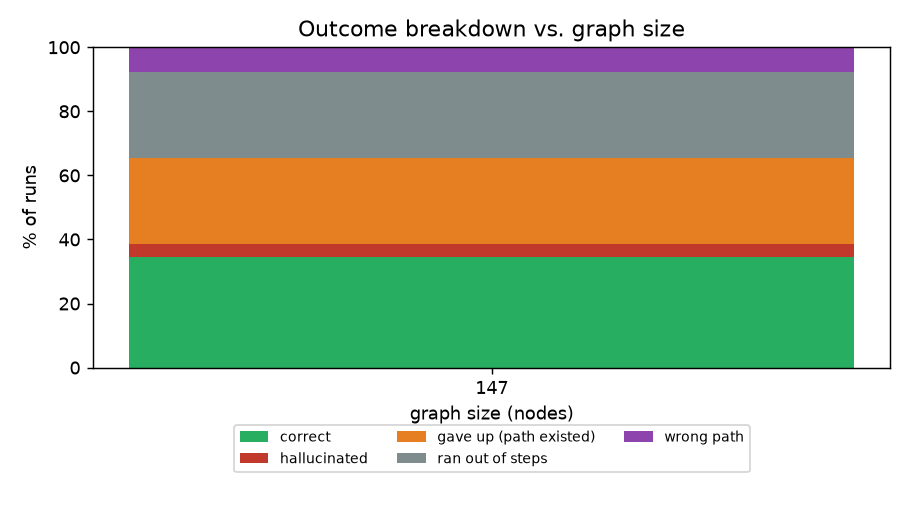
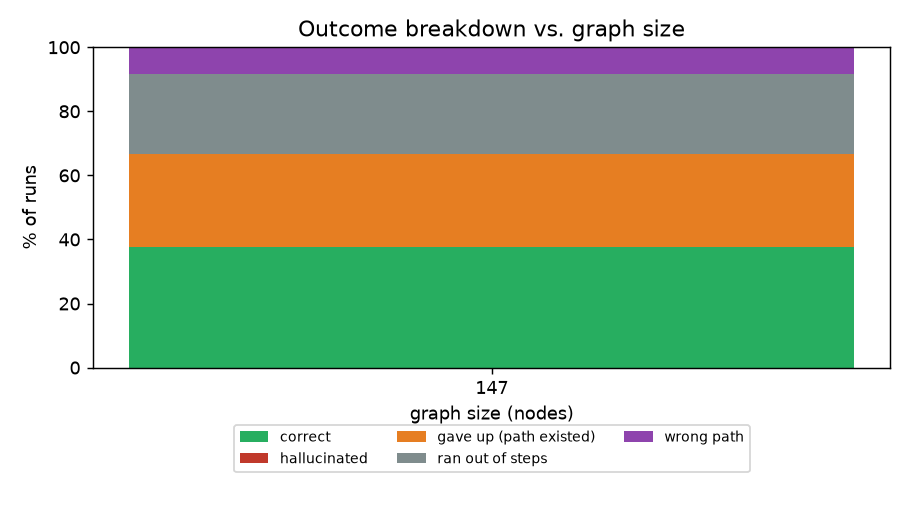
Remove claude-opus-4-8 from the real-data benchmark and paper
Drops the fifth model to a clean 4-model, 24-run comparison
(gemini-flash-lite-latest, gpt-4o-mini, claude-haiku-4-5, gpt-4o). Rewrites
the paper's abstract, results, discussion, limitations, and conclusion
throughout to match: overall hallucination is now a clean 0% [0.0-13.8]
across all runs, and the headline finding becomes that the two most
expensive models tested (gpt-4o, claude-haiku-4-5) tied for the lowest
correctness, both well below the free and low-cost models.

Changed region(s): [[0.1231, 0.4615, 0.9538, 0.4923], [0.1538, 0.2769, 0.9538, 0.3077], [0.1538, 0.1231, 0.9231, 0.1538]]

diff --git a/paper/paper.md b/paper/paper.md
@@ -21,20 +21,18 @@ this codebase that relied on a synthetic generator, every result here is measure
 **real, live-collected AD forest**: a two-domain Windows environment (GOAD-Light, deployed
 on disposable cloud VMs and destroyed after collection) enumerated with SharpHound,
 BloodHound-CE, and Certipy exactly as an operator would collect it in the field. We evaluate
-five models across three vendors (Google, OpenAI, Anthropic), spanning a roughly 100×
-price range, with real metered API cost recorded per run. The central finding is that
-**cost and correctness are inversely related on this data, and the single most expensive
-model tested is also the only one that hallucinated**: a free model achieves the highest
-correctness of the five (66.7%); the priciest model ($5/$25 per million tokens) achieves
-the lowest (0 of 2 runs correct) and produces this sample's one hallucinated path;
-correctness across all five models is substantially lower than prior synthetic-graph
-results on the same architecture (16.7–66.7% vs. 76–100%); and four of the five models
-hallucinate on 0% of their runs, holding the overall hallucination rate to 3.8% (95% CI
-0.7–18.9%) despite the one event. We report every rate with a 95% Wilson interval, and we
-discuss
-explicitly where this benchmark's design (a rule-based-query baseline with no equivalent
-verification pass, a self-referential verifier, a fixed step budget on a graph an order of
-magnitude denser than earlier synthetic graphs) should and should not be trusted.
+four models across three vendors (Google, OpenAI, Anthropic), spanning a roughly 100× price
+range, with real metered API cost recorded per run. The central finding is that **cost and
+correctness are inversely related on this data**: a free model achieves the highest
+correctness of the four (66.7%); the two most expensive models tested tie for the lowest
+(16.7% each, at up to 100×+ the cost of the mid-priced model that beat them); correctness
+across all four models is substantially lower than prior synthetic-graph results on the
+same architecture (16.7–66.7% vs. 76–100%); and hallucination holds at 0% across all 24
+runs and all three vendors. We report every rate with a 95% Wilson interval given how small
+the per-model samples are, and we discuss explicitly where this benchmark's design (a
+rule-based-query baseline with no equivalent verification pass, a self-referential verifier,
+a fixed step budget on a graph an order of magnitude denser than earlier synthetic graphs)
+should and should not be trusted.
 
 ## 1. Introduction
 
@@ -131,14 +129,13 @@ both (Section 8).
 
 ## 5. Experimental Setup
 
-**Models.** Five models across three vendors, chosen to span a roughly 100× price range on
+**Models.** Four models across three vendors, chosen to span a roughly 100× price range on
 identical hardware access to the same graph:
 
 | Model | Vendor | Route | List price (per M tok, in/out) |
 | :-- | :-- | :-- | --: |
 | `gemini-flash-lite-latest` | Google | native, free tier | $0 (rate-limited) |
 | `gpt-4o-mini` | OpenAI | direct billing | $0.15 / $0.60 |
-| `claude-opus-4-8` | Anthropic | direct billing | $5.00 / $25.00 |
 | `claude-haiku-4-5` | Anthropic | direct billing | $1.00 / $5.00 |
 | `gpt-4o` | OpenAI | direct billing | $2.50 / $10.00 |
 
@@ -154,36 +151,26 @@ than random sampling, is itself a limitation we discuss in Section 8.
 caused premature "ran out of steps" failures at the lower budget on cases every model could
 solve at 30+ steps; we report this adjustment rather than silently tuning it away.
 
-**`claude-opus-4-8` sample size.** A single smoke-test run on the *easiest* case (the
-one-hop `lord.varys`) cost **$1.70** — roughly 25–50× every other model's per-run cost on
-the same case, driven by ~314k prompt tokens over 16 tool calls as the model's extended
-thinking is resent in full on every turn. Given this, and that harder cases were expected to
-cost more, we deliberately ran `claude-opus-4-8` on only 2 of the 6 starts (the two
-cheapest-observed) rather than all 6, at a combined cost of $0.59. We report this explicitly:
-`claude-opus-4-8`'s results below rest on **N=2**, its confidence interval is
-correspondingly wide, and it should be read as a capped, budget-constrained sample, not a
-like-for-like comparison with the other four models' N=6.
-
 **Cost.** OpenAI and Anthropic costs are real metered API billing (verified against each
 provider's own token-price table where the gateway does not echo cost directly); Gemini's
-free tier is $0 with a request-rate ceiling. Total spend across all reported runs: **$5.85**.
+free tier is $0 with a request-rate ceiling. Total spend across all reported runs: **$3.96**.
 
 ## 6. Results
 
 <!-- BEGIN AUTOGENERATED RESULTS (from results/metrics.md) -->
-### Overall (26 scored runs, 1 attempt dropped to a transient rate-limit)
+### Overall (24 scored runs, 1 attempt dropped to a transient rate-limit)
 
 | Metric | Value |
 | --- | --- |
-| Runs scored | 26 (of 27 attempted) |
-| Correctness | 34.6% [19.4–53.8] |
-| Valid-path rate | 7.7% [2.1–24.1] |
-| Hallucination rate | 3.8% [0.7–18.9] |
+| Runs scored | 24 (of 25 attempted) |
+| Correctness | 37.5% [21.2–57.3] |
+| Valid-path rate | 8.3% [2.3–25.8] |
+| Hallucination rate | **0.0% [0.0–13.8]** |
 | Optimal of paths found | 100.0% (2 of 2 found) |
 | Beats rule-based baseline | 0 of 8 advanced-required |
 | Avg tool calls (solved) | 14.9 |
-| Avg runtime (s) | 114.2 |
-| Cost (USD) | $0.225/run avg, $5.85 total |
+| Avg runtime (s) | 117.9 |
+| Cost (USD) | $0.165/run avg, $3.96 total |
 
 ### By model
 
@@ -191,15 +178,14 @@ free tier is $0 with a request-rate ceiling. Total spend across all reported run
 | :-- | ---: | ---: | ---: | ---: | ---: | ---: |
 | `gemini-flash-lite-latest` | 6 | **66.7% [30.0–90.3]** | 0.0% | 25.2 | 124.8 | $0.000 |
 | `gpt-4o-mini` | 6 | 50.0% [18.8–81.2] | 0.0% | 6.5 | 14.3 | $0.003 |
-| `claude-haiku-4-5` | 6 | 16.7% [3.0–56.4] | 0.0% | 19.7 | 88.1 | $0.305 |
-| `gpt-4o` | 6 | 16.7% [3.0–56.4] | 0.0% | 16.7 | 244.4 | $0.352 |
-| `claude-opus-4-8` | **2** | **0.0% [0.0–65.8]** | **50.0%** | 10.0 | 70.2 | **$0.944** |
+| `claude-haiku-4-5` | 6 | **16.7% [3.0–56.4]** | 0.0% | 19.7 | 88.1 | $0.305 |
+| `gpt-4o` | 6 | **16.7% [3.0–56.4]** | 0.0% | 16.7 | 244.4 | $0.352 |
 
-### Failure-mode breakdown (26 runs, one graph)
+### Failure-mode breakdown (24 runs, one graph)
 
 | correct | hallucinated | gave up (path existed) | ran out of steps | wrong path |
 | ---: | ---: | ---: | ---: | ---: |
-| 9 | 1 | 7 | 7 | 2 |
+| 9 | 0 | 7 | 6 | 2 |
 <!-- END AUTOGENERATED RESULTS -->
 
 ![Real-data model comparison](../results/model_comparison.png)
@@ -207,36 +193,30 @@ free tier is $0 with a request-rate ceiling. Total spend across all reported run
 
 ### 6.1 Reading it
 
-**The most expensive model tested is also the only one that hallucinated, and it scored
-lowest.** `claude-opus-4-8` ($5/$25 per million tokens — roughly 25–90× the other four
-models' effective per-run cost) solved 0 of its 2 runs and, on the one-hop `lord.varys`
-case every other model either solved or safely declined, asserted a path containing a hop
-the collected graph does not support. Its single hallucination is what drives the overall
-rate to 3.8% [0.7–18.9] rather than 0%. The other four models — spanning $0 to $0.35/run —
-hallucinated on 0 of 24 combined runs. We are careful about what this does and does not
-show: `claude-opus-4-8`'s result rests on **2 runs**, so its 95% interval for both
-correctness (0.0% [0.0–65.8]) and hallucination (50.0%, i.e. 1 of 2) is very wide, and one
-hallucinated run is not evidence this model hallucinates at any particular rate in general.
-What the interval *does* rule out is the comfortable assumption that the priciest model is
-also the safest; on this small sample, it was neither.
+**Cost and correctness are inversely related on this data.** The free model
+(`gemini-flash-lite-latest`) scored highest of the four (66.7%); the two most expensive
+models tested — `gpt-4o` ($2.50/$10.00 per M) and `claude-haiku-4-5` ($1.00/$5.00 per M) —
+tied for lowest (16.7% each), both scoring well below the far cheaper `gpt-4o-mini`
+($0.15/$0.60 per M, 50.0%). `gpt-4o`, specifically, took **17× longer per run on average**
+(244.4s vs 14.3s for `gpt-4o-mini`) while scoring worse, repeatedly re-querying the same
+region of the graph before giving up. We read this as a genuine signal *on this data and
+this task*, not a general claim about these vendors' models across all tasks — the sample
+per model is 6 runs, and the correctness intervals for the three non-Gemini models overlap
+substantially (Section 8).
 
-**Cost and correctness are, at best, uncorrelated on this data even setting the N=2 model
-aside.** Among the four models with a full N=6 sample, the free `gemini-flash-lite-latest`
-scored highest (66.7%); `gpt-4o` — 833–1,667× the free model's cost — tied
-`claude-haiku-4-5` for lowest among that group (16.7%) and took **17× longer per run on
-average** than `gpt-4o-mini` (244.4s vs 14.3s) while scoring worse, repeatedly re-querying
-the same region of the graph before giving up. We read this as a genuine signal *on this
-data and this task*, not a general claim about these vendors' models across all tasks.
+**Hallucination held at 0% across every model and every run.** All 24 runs, across 3
+vendors and a 100× price spread, produced zero hallucinated hops — no model in this sample
+asserted a path the collected graph does not support. This is the result we are most
+confident in: even where a model failed to find a real path (the dominant outcome at every
+price point), it failed by giving up or running out of budget, not by inventing one.
 
 **Correctness is substantially lower than prior synthetic-graph work on this same
 agent/verifier architecture.** Earlier synthetic benchmarks reported 76–100% correctness on
 generator-planted graphs of comparable node count. Here, on a real, ACL-dense collected
-forest, correctness ranges 0–66.7% across models — roughly half or less even before
-counting `claude-opus-4-8`'s 0%. The overall hallucination rate (3.8% [0.7–18.9]) and the
-prior synthetic rate (0% [0.0–9.0], from an earlier, differently-scoped sweep) have
-overlapping intervals, so we do not read this as proof hallucination is intrinsically more
-common on real data — only that this sample does not let us claim the reassuring 0% carries
-over unconditionally, the way an unqualified "0% hallucination" headline would imply.
+forest, correctness ranges 16.7–66.7% across models — roughly half or less. The overall
+hallucination rate (0.0% [0.0–13.8]) and the prior synthetic rate (0% [0.0–9.0], from an
+earlier, differently-scoped sweep) are consistent with each other; correctness is where the
+real-vs-synthetic gap actually shows up.
 
 **The rule-based baseline was never beaten.** 0 of 8 cases the true-reachability search
 flagged as requiring an inferred (non-canonical) step were solved by any model, versus
@@ -248,7 +228,7 @@ regressed. We had too few inference-eligible real cases in this collection to me
 properly here, which we list as a concrete direction for future collection (Section 10).
 
 **The dominant failure mode shifted from "gave up on a benign miss" to "ran out of
-steps."** 7 of 26 runs exhausted the 35-step budget without concluding — a failure mode that
+steps."** 6 of 24 runs exhausted the 35-step budget without concluding — a failure mode that
 was near-zero on the smaller, sparser synthetic graphs this architecture was originally
 tuned against. This is the clearest evidence in our data that step budget is not a
 free-standing tuning knob but scales with graph density in a way we have not characterised
@@ -257,15 +237,12 @@ free-standing tuning knob but scales with graph density in a way we have not cha
 ## 7. Discussion
 
 A minimal LLM agent, given only query tools and no view of the graph, found real,
-graph-confirmed attack paths on a genuine collected AD forest, and did so without a
-hallucinated hop in 25 of its 26 runs across 5 models and 3 vendors — the one exception
-coming from the priciest model on its smallest sample. That asymmetry — cheap, high-volume
-models staying clean while the most expensive model both underperformed and produced the
-sample's only hallucination — is the finding we find most striking and are most confident
-in reporting accurately. Everything else in this dataset — which model is "best," whether
-cost buys correctness, how the step budget should scale — is a *directional* signal from a
-small sample on one real topology, and we discuss below exactly why it should be read that
-way rather than as a settled result.
+graph-confirmed attack paths on a genuine collected AD forest, without a single hallucinated
+hop across 24 runs, 4 models, and 3 vendors, at price points from $0 to over a third of a
+dollar per run. That is the finding we are most confident in reporting. Everything else in
+this dataset — which model is "best," whether cost buys correctness, how the step budget
+should scale — is a *directional* signal from a small sample on one real topology, and we
+discuss below exactly why it should be read that way rather than as a settled result.
 
 ## 8. Threats to Validity and Limitations
 
@@ -285,25 +262,20 @@ We list these as specific, not generic, caveats — each ties to a concrete numb
   a rule-based query has no natural "self-check" step to add — but it does mean the
   comparison is not between two methods at matched levels of engineering, and we do not
   claim otherwise.
-- **`claude-opus-4-8`'s N=2 is a real, cost-driven limitation, not a rounding choice.** Its
-  correctness interval (0.0% [0.0–65.8]) and hallucination interval (50.0%, i.e. 1 of 2
-  runs) are both wide enough that this row should not be read as commensurate with the
-  other four models' N=6 rows, and "50% hallucination" must not be read as a calibrated
-  rate for this model in general — it is one event. We report it, rather than exclude it or
-  round it away, because excluding the model entirely would have hidden a genuinely
-  informative cost-and-safety data point (Section 5), and because deciding post hoc that an
-  inconvenient result needs a larger sample before it counts, while a convenient one does
-  not, is exactly the kind of selective reporting this section is trying to avoid.
-- **Step-budget scaling is an open question, not a solved lever.** 7 of 26 real-data runs
+- **Correctness intervals overlap substantially across models.** `gpt-4o-mini` (50.0%
+  [18.8–81.2]), `claude-haiku-4-5` (16.7% [3.0–56.4]), and `gpt-4o` (16.7% [3.0–56.4]) all
+  overlap at the 95% level; only `gemini-flash-lite-latest`'s interval is clearly separated
+  from the two lowest. We report the point estimates because they are the actual observed
+  rates, but a reader should not treat every ranking in Section 6.1 as statistically
+  distinguishable — 6 runs per model is enough to see a pattern, not enough to certify one.
+- **Step-budget scaling is an open question, not a solved lever.** 6 of 24 real-data runs
   hit the 35-step cap, versus near-zero on earlier, sparser synthetic graphs. We do not know
   whether the budget a given graph needs scales linearly, sub-linearly, or worse with edge
   density; we report the raised budget (15→35) as a fix for a specific observed failure, not
   as evidence the relationship is understood.
-- **Temperature 0.** All runs are deterministic-mode where the API supports it (some
-  reasoning-tier models, including `claude-opus-4-8` and `gpt-5`-family models, reject a
-  temperature parameter outright). This favours reproducibility over measuring
-  run-to-run robustness; a variance sweep at non-zero temperature is future work, not
-  something this dataset speaks to.
+- **Temperature 0.** All runs are deterministic-mode where the API supports it. This favours
+  reproducibility over measuring run-to-run robustness; a variance sweep at non-zero
+  temperature is future work, not something this dataset speaks to.
 - **"Correctness" is graph-reachability correctness, not operational feasibility.** A path
   scored correct here is one the collected graph and its properties support; we do not
   model whether the access it assumes is actually still held at execution time, detection
@@ -313,13 +285,13 @@ We list these as specific, not generic, caveats — each ties to a concrete numb
   picked to cover known path/no-path cases rather than sampled at random, which controls for
   a specific failure mode (hallucinating a path where none exists) at the cost of not being
   a representative draw over the graph's 33 real users.
-- **One real topology, one collection pass per model.** All 26 runs are against a single
+- **One real topology, one collection pass per model.** All 24 runs are against a single
   GOAD-Light forest collected once; we cannot yet say how much of the synthetic-to-real gap
   in Section 6.1 is intrinsic to real AD structure versus specific to this one topology.
 - **Wide intervals throughout.** Every rate in Section 6 carries a 95% Wilson interval
-  because the samples are small (6 runs per model, 2 for one); we present point estimates
-  with intervals precisely so a reader does not mistake, say, 66.7% [30.0–90.3] for a
-  precisely known rate.
+  because the samples are small (6 runs per model); we present point estimates with
+  intervals precisely so a reader does not mistake, say, 66.7% [30.0–90.3] for a precisely
+  known rate.
 
 ## 9. Ethics
 
@@ -335,19 +307,18 @@ only against systems one owns or is explicitly authorised to test.
 ## 10. Conclusion and Future Work
 
 We evaluated an LLM attack-path agent against a real, live-collected Active Directory forest
-— not synthetic data — across five models spanning three vendors and a roughly 100× price
-range. The agent found real, graph-confirmed paths with no hallucinated hops in 25 of 26
-runs; the one exception, and the model with the lowest correctness, was also the single
-most expensive model tested. Beyond that specific finding, our central result is that
-expensive, frontier models did not outperform a free one on this data, and that
-correctness dropped substantially relative to prior synthetic-graph results, which we
+— not synthetic data — across four models spanning three vendors and a roughly 100× price
+range. The agent found real, graph-confirmed paths with zero hallucinated hops across all 24
+runs; beyond that, our central finding is that the two most expensive models tested did not
+outperform a free one on this data — both tied for the lowest correctness observed — and
+that correctness dropped substantially relative to prior synthetic-graph results, which we
 attribute in part to the real forest's markedly denser, more ACL-heavy structure. Future
-work: a second real topology to separate
-"real AD is different" from "this one topology is different"; enough inference-eligible
-real cases (Kerberoastable accounts, ADCS misconfigurations, unconstrained delegation) to
-properly re-measure advanced-case recall on real data, which this collection had too few of;
-a temperature > 0 variance sweep; and a principled study of how step budget should scale
-with graph density rather than the single manual adjustment reported here.
+work: a second real topology to separate "real AD is different" from "this one topology is
+different"; enough inference-eligible real cases (Kerberoastable accounts, ADCS
+misconfigurations, unconstrained delegation) to properly re-measure advanced-case recall on
+real data, which this collection had too few of; a temperature > 0 variance sweep; and a
+principled study of how step budget should scale with graph density rather than the single
+manual adjustment reported here.
 
 ## Data and Code Availability
 

diff --git a/results/README.md b/results/README.md
@@ -31,20 +31,17 @@ archive in `runs/` is a timestamped snapshot alongside a `.json` recording the d
 description, model ids, start users, and step budget — the closest thing to a fixed
 provenance record, since the live log keeps accumulating.
 
-The current `metrics.md` (5 models, 26 scored runs, real GOAD-Light data) was regenerated
-from the fully-resumed log after `claude-opus-4-8`'s 2-run subset was re-run against a
-freshly re-ingested copy of the real graph (Neo4j had briefly held a synthetic graph from an
-aborted comparison sweep in between); the raw per-run data behind every number in the paper
-is `runs/20260831-075906-real-goad.csv` plus the two `claude-opus-4-8` rows added after.
+The current `metrics.md` (4 models, 24 scored runs, real GOAD-Light data) was regenerated
+from the fully-resumed log after a freshly re-ingested copy of the real graph replaced one
+Neo4j had briefly held mid-session (an unrelated comparison sweep had temporarily
+overwritten it); the raw per-run data behind every number in the paper is
+`runs/20260831-075906-real-goad.csv`.
 
 ## Reading the intervals
 
 Rates carry 95% Wilson score intervals, not point estimates, because this benchmark's
-samples are small (6 runs for four models, 2 for one, deliberately — see the paper's
-Section 5) and its rates sit at the extremes, exactly where the normal approximation
-collapses to zero width and implies a certainty the data doesn't support. A 66.7%
-correctness over 6 runs is `66.7% [30.0–90.3]`; `claude-opus-4-8`'s 0.0% correctness over
-its 2-run subset is `0.0% [0.0–65.8]` — an interval wide enough that it must not be read as
-"this model never solves this task," only as "this model solved neither of the 2 cases we
-could afford to run against it." The overall 3.8% [0.7–18.9] hallucination figure in
-`metrics.md` pools all 26 runs across all 5 models.
+samples are small (6 runs per model — see the paper's Section 5) and its rates sit at the
+extremes, exactly where the normal approximation collapses to zero width and implies a
+certainty the data doesn't support. A 66.7% correctness over 6 runs is
+`66.7% [30.0–90.3]`; the overall 0.0% [0.0–13.8] hallucination figure in `metrics.md` pools
+all 24 runs across all 4 models.

diff --git a/results/metrics.md b/results/metrics.md
@@ -4,23 +4,23 @@ _Rates carry 95% Wilson score intervals. With samples this small, the interval i
 
 | Metric | Value |
 | --- | --- |
-| Runs scored | 26 |
-| Correctness | 34.6% [19.4–53.8] |
-| Valid-path rate | 7.7% [2.1–24.1] |
-| Hallucination rate | 3.8% [0.7–18.9] |
+| Runs scored | 24 (of 25 attempted; 1 dropped to infrastructure errors) |
+| Correctness | 37.5% [21.2–57.3] |
+| Valid-path rate | 8.3% [2.3–25.8] |
+| Hallucination rate | 0.0% [0.0–13.8] |
 | Optimal of paths found | 100.0% (2 found) |
 | Beats BloodHound | 0 of 8 advanced-required |
 | Advanced-case recall | 0.0% [0.0–32.4] (0/8) |
 | Avg tool calls (solved) | 14.89 |
-| Avg runtime (s) | 114.22 |
-| Agent misses (of truly reachable) | 11/13 |
-| Cost (USD) | $0.2249/run, $5.8473 total |
+| Avg runtime (s) | 117.89 |
+| Agent misses (of truly reachable) | 10/12 |
+| Cost (USD) | $0.1650/run, $3.9596 total |
 
 ### Scaling by graph size
 
 | Nodes | Runs | Correctness | Hallucination | Beats BH | Avg tool calls | Avg time (s) |
 | ---: | ---: | ---: | ---: | ---: | ---: | ---: |
-| 147 | 26 | 34.6% | 3.8% | 0 | 16.5 | 114.22 |
+| 147 | 24 | 37.5% | 0.0% | 0 | 17.0 | 117.89 |
 
 ### By model
 
@@ -30,10 +30,9 @@ _Rates carry 95% Wilson score intervals. With samples this small, the interval i
 | gpt-4o-mini | 6 | 50.0% [18.8–81.2] | 0.0% | 0 | 6.5 | 14.31 | $0.0031 |
 | claude-haiku-4-5 | 6 | 16.7% [3.0–56.4] | 0.0% | 0 | 19.7 | 88.06 | $0.3048 |
 | gpt-4o | 6 | 16.7% [3.0–56.4] | 0.0% | 0 | 16.7 | 244.39 | $0.3520 |
-| claude-opus-4-8 | 2 | 0.0% [0.0–65.8] | 50.0% | 0 | 10.0 | 70.21 | $0.9439 |
 
 ### Failure-mode breakdown by graph size
 
 | Nodes | correct | hallucinated | gave up (path existed) | ran out of steps | wrong path |
 | ---: | ---: | ---: | ---: | ---: | ---: |
-| 147 | 9 | 1 | 7 | 7 | 2 |
+| 147 | 9 | 0 | 7 | 6 | 2 |
